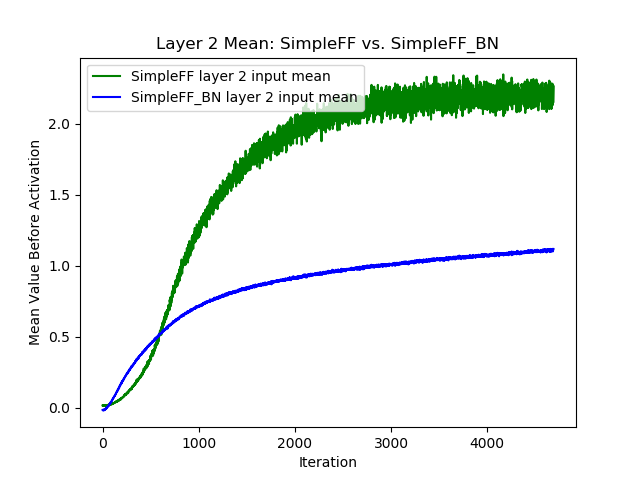
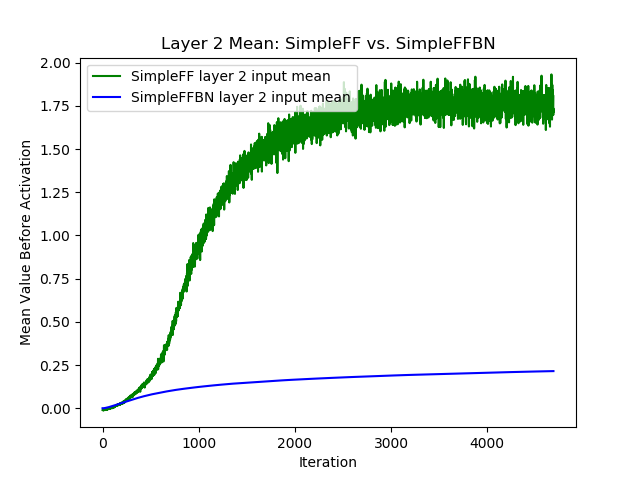
Update plots.

diff --git a/batch-norm/bn/run.py b/batch-norm/bn/run.py
@@ -9,30 +9,30 @@ _, _, _, _, _, _ = train(model_type=ModelType.SIMPLE_FF_BN_NOISE, num_epochs=10)
 """
 Move plots to another file if they get in the way
 """
-# # plot layer 1
-# plt.plot(l1_mean, 'g', label='%s layer 1 input mean' % model_type)
-# plt.plot(l1_mean_bn, 'b', label='%s layer 1 input mean' % model_type_bn)
-# plt.title('Layer 1 Mean: %s vs. %s' % (model_type, model_type_bn))
-# plt.ylabel('Mean Value Before Activation')
-# plt.xlabel('Iteration')
-# plt.legend(loc='upper left')
-# plt.savefig('imgs/l1_mean.png')
-# plt.close()
-#
-# # plot layer 2
-# plt.plot(l2_mean, 'g', label='%s layer 2 input mean' % model_type)
-# plt.plot(l2_mean_bn, 'b', label='%s layer 2 input mean' % model_type_bn)
-# plt.title('Layer 2 Mean: %s vs. %s' % (model_type, model_type_bn))
-# plt.ylabel('Mean Value Before Activation')
-# plt.xlabel('Iteration')
-# plt.legend(loc='upper left')
-# plt.savefig('imgs/l2_mean.png')
-# plt.close()
-#
-# # plot model loss
-# plt.plot(loss_arr, 'r', label='%s loss' % model_type)
-# plt.plot(loss_arr_bn, 'y', label='%s loss' % model_type_bn)
-# plt.title('Loss: %s vs. %s' % (model_type, model_type_bn))
-# plt.legend(loc='upper right')
-# plt.savefig('imgs/loss.png')
-# plt.close()
+# plot layer 1
+plt.plot(l1_mean, 'g', label='%s layer 1 input mean' % model_type)
+plt.plot(l1_mean_bn, 'b', label='%s layer 1 input mean' % model_type_bn)
+plt.title('Layer 1 Mean: %s vs. %s' % (model_type, model_type_bn))
+plt.ylabel('Mean Value Before Activation')
+plt.xlabel('Iteration')
+plt.legend(loc='upper left')
+plt.savefig('imgs/l1_mean.png')
+plt.close()
+
+# plot layer 2
+plt.plot(l2_mean, 'g', label='%s layer 2 input mean' % model_type)
+plt.plot(l2_mean_bn, 'b', label='%s layer 2 input mean' % model_type_bn)
+plt.title('Layer 2 Mean: %s vs. %s' % (model_type, model_type_bn))
+plt.ylabel('Mean Value Before Activation')
+plt.xlabel('Iteration')
+plt.legend(loc='upper left')
+plt.savefig('imgs/l2_mean.png')
+plt.close()
+
+# plot model loss
+plt.plot(loss_arr, 'b', label='%s loss' % model_type)
+plt.plot(loss_arr_bn, 'g', label='%s loss' % model_type_bn)
+plt.title('Loss: %s vs. %s' % (model_type, model_type_bn))
+plt.legend(loc='upper right')
+plt.savefig('imgs/loss.png')
+plt.close()
